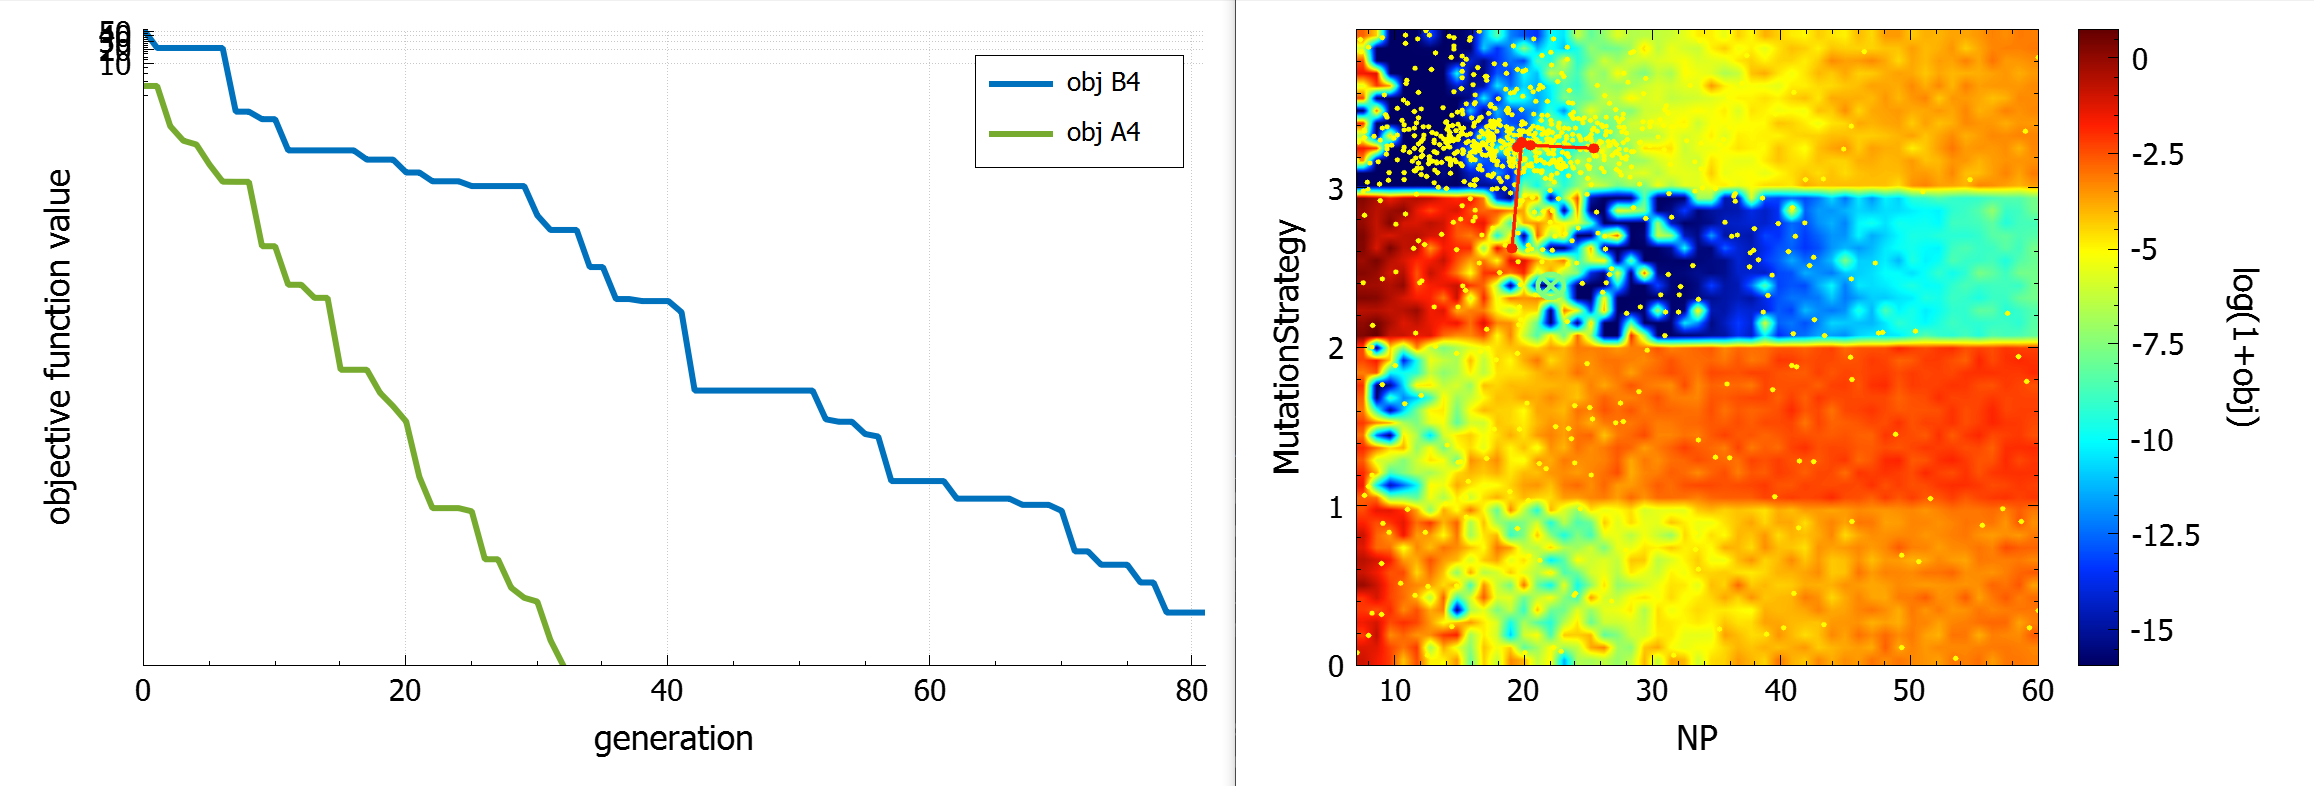
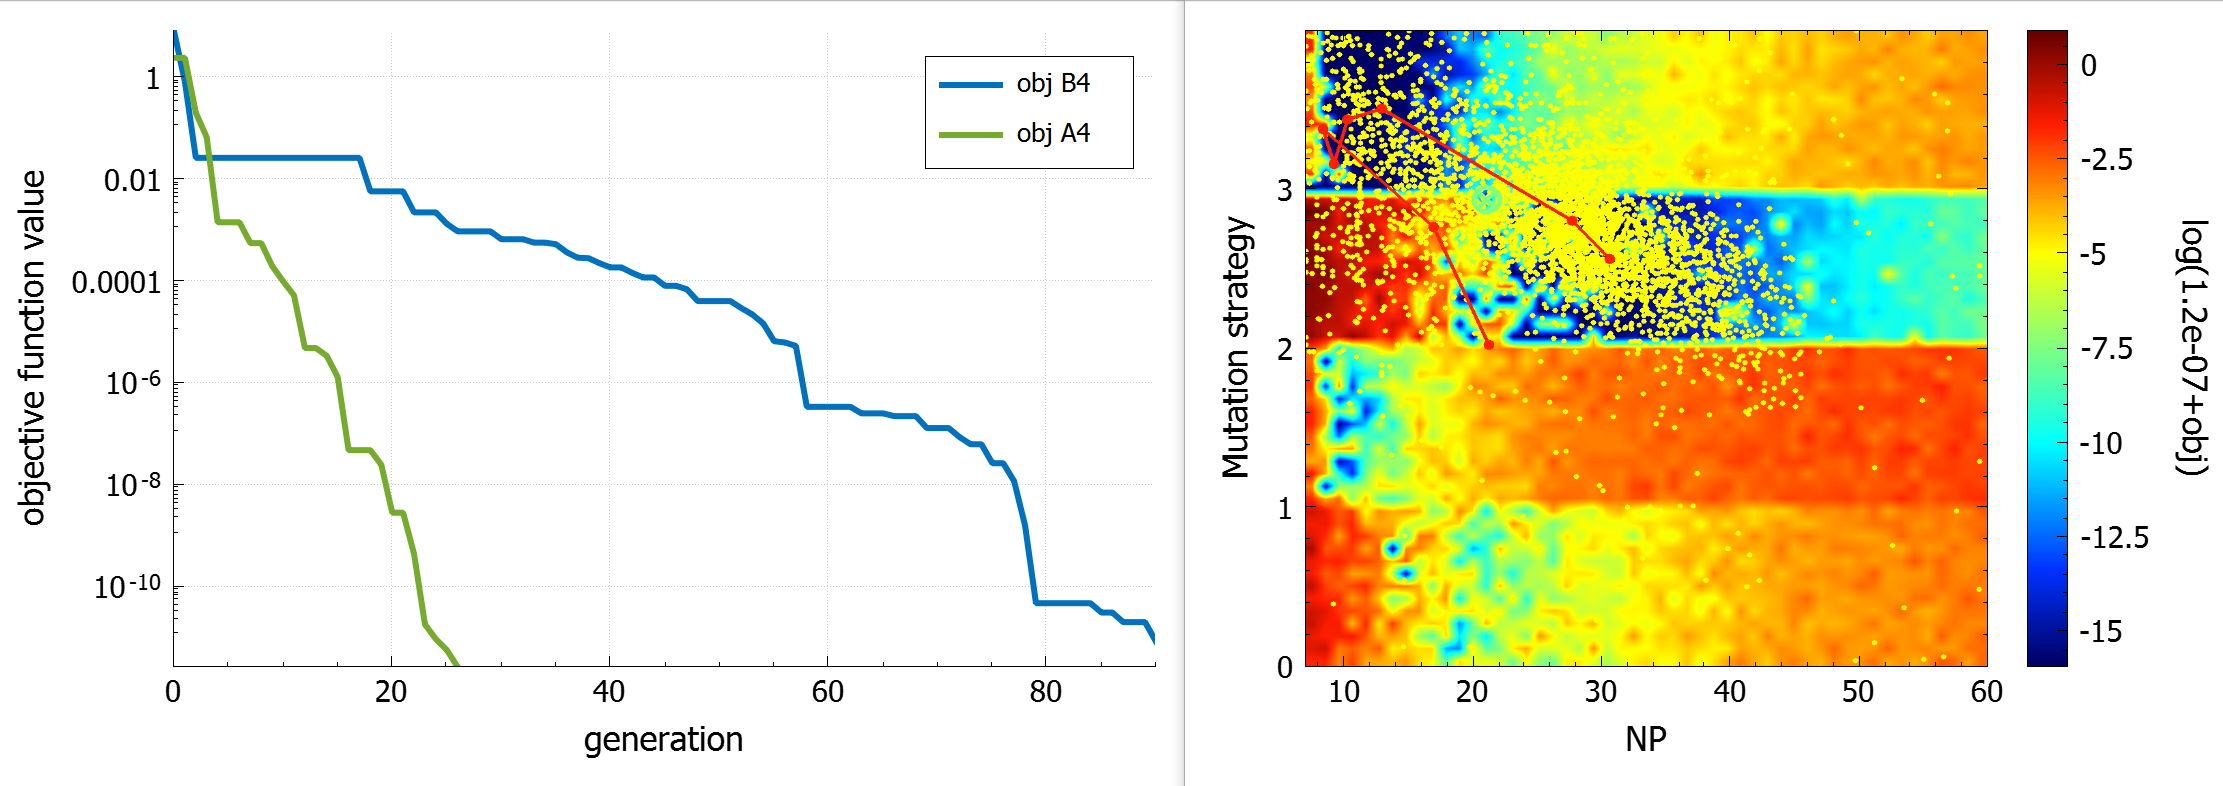
gg

diff --git a/src/Plot/Plot1D.cpp b/src/Plot/Plot1D.cpp
@@ -107,6 +107,7 @@ void Plot1D::Initialize(int ycnt, int y1cnt, int y2cnt, bool clear)
   windowPlot->move(Plot::GetNewPlotPosition(windowPlot.get(), mName));
   auto& plot = windowPlot->ui.widget;
 
+  plot->setNoAntialiasingOnDrag(true);
   plot->xAxis->setTickLabelFont(Plot::fontTicks);
   plot->yAxis->setTickLabelFont(Plot::fontTicks);
   plot->yAxis2->setTickLabelFont(Plot::fontTicks);
@@ -137,10 +138,18 @@ void Plot1D::Initialize(int ycnt, int y1cnt, int y2cnt, bool clear)
   }
 
   if (mYLogarithmic)
+  {
     plot->yAxis->setScaleType(QCPAxis::stLogarithmic);
+    QSharedPointer<QCPAxisTickerLog> logTicker(new QCPAxisTickerLog);
+    plot->yAxis->setTicker(logTicker);
+  }
 
   if (mY2Logarithmic)
+  {
     plot->yAxis2->setScaleType(QCPAxis::stLogarithmic);
+    QSharedPointer<QCPAxisTickerLog> logTicker(new QCPAxisTickerLog);
+    plot->yAxis2->setTicker(logTicker);
+  }
 
   for (int i = 0; i < ycnt; i++)
   {
